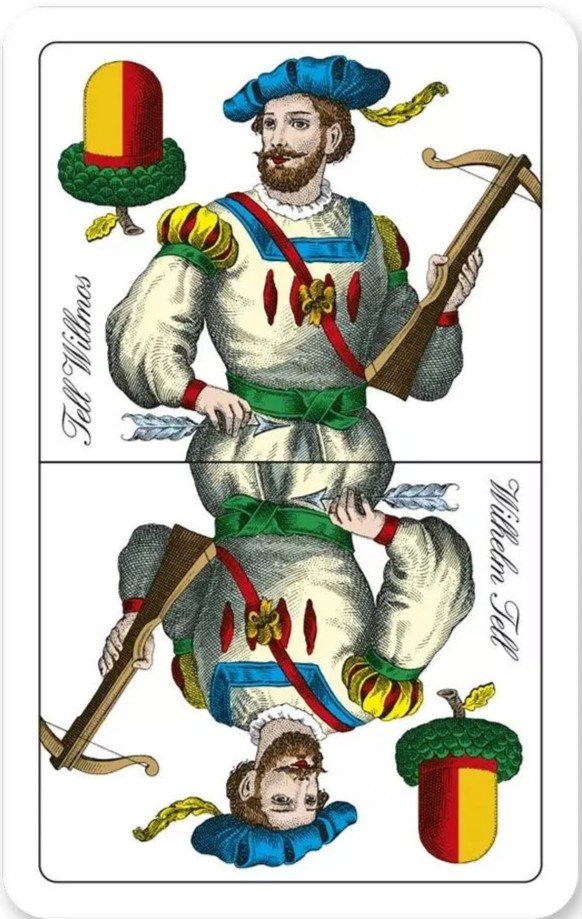
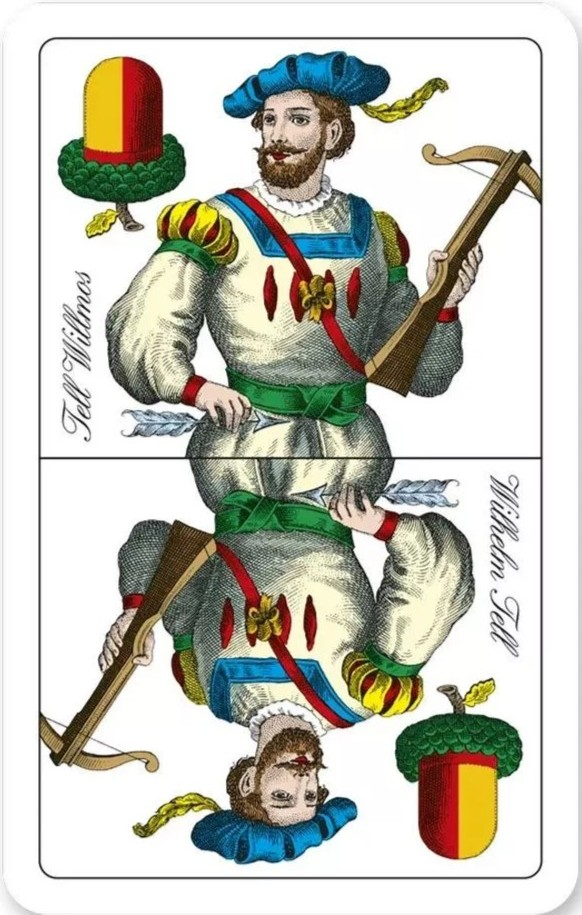
fixed decoration images on guestpage

diff --git a/client/src/GuestPage.jsx b/client/src/GuestPage.jsx
@@ -118,7 +118,7 @@ const GuestPage = () => {
         <img
           src={cardImageSrc}
           alt="Decorative card"
-          className="w-64 md:w-96 drop-shadow-2xl"
+          className="w-64 md:w-96 drop-shadow-2xl rounded-4xl"
         />
       </div>
 
@@ -172,7 +172,7 @@ const GuestPage = () => {
         <img
           src={cardImageSrc2}
           alt="Decorative card"
-          className="w-64 md:w-96 drop-shadow-2xl"
+          className="w-64 md:w-96 drop-shadow-2xl rounded-4xl"
         />
       </div>
 
